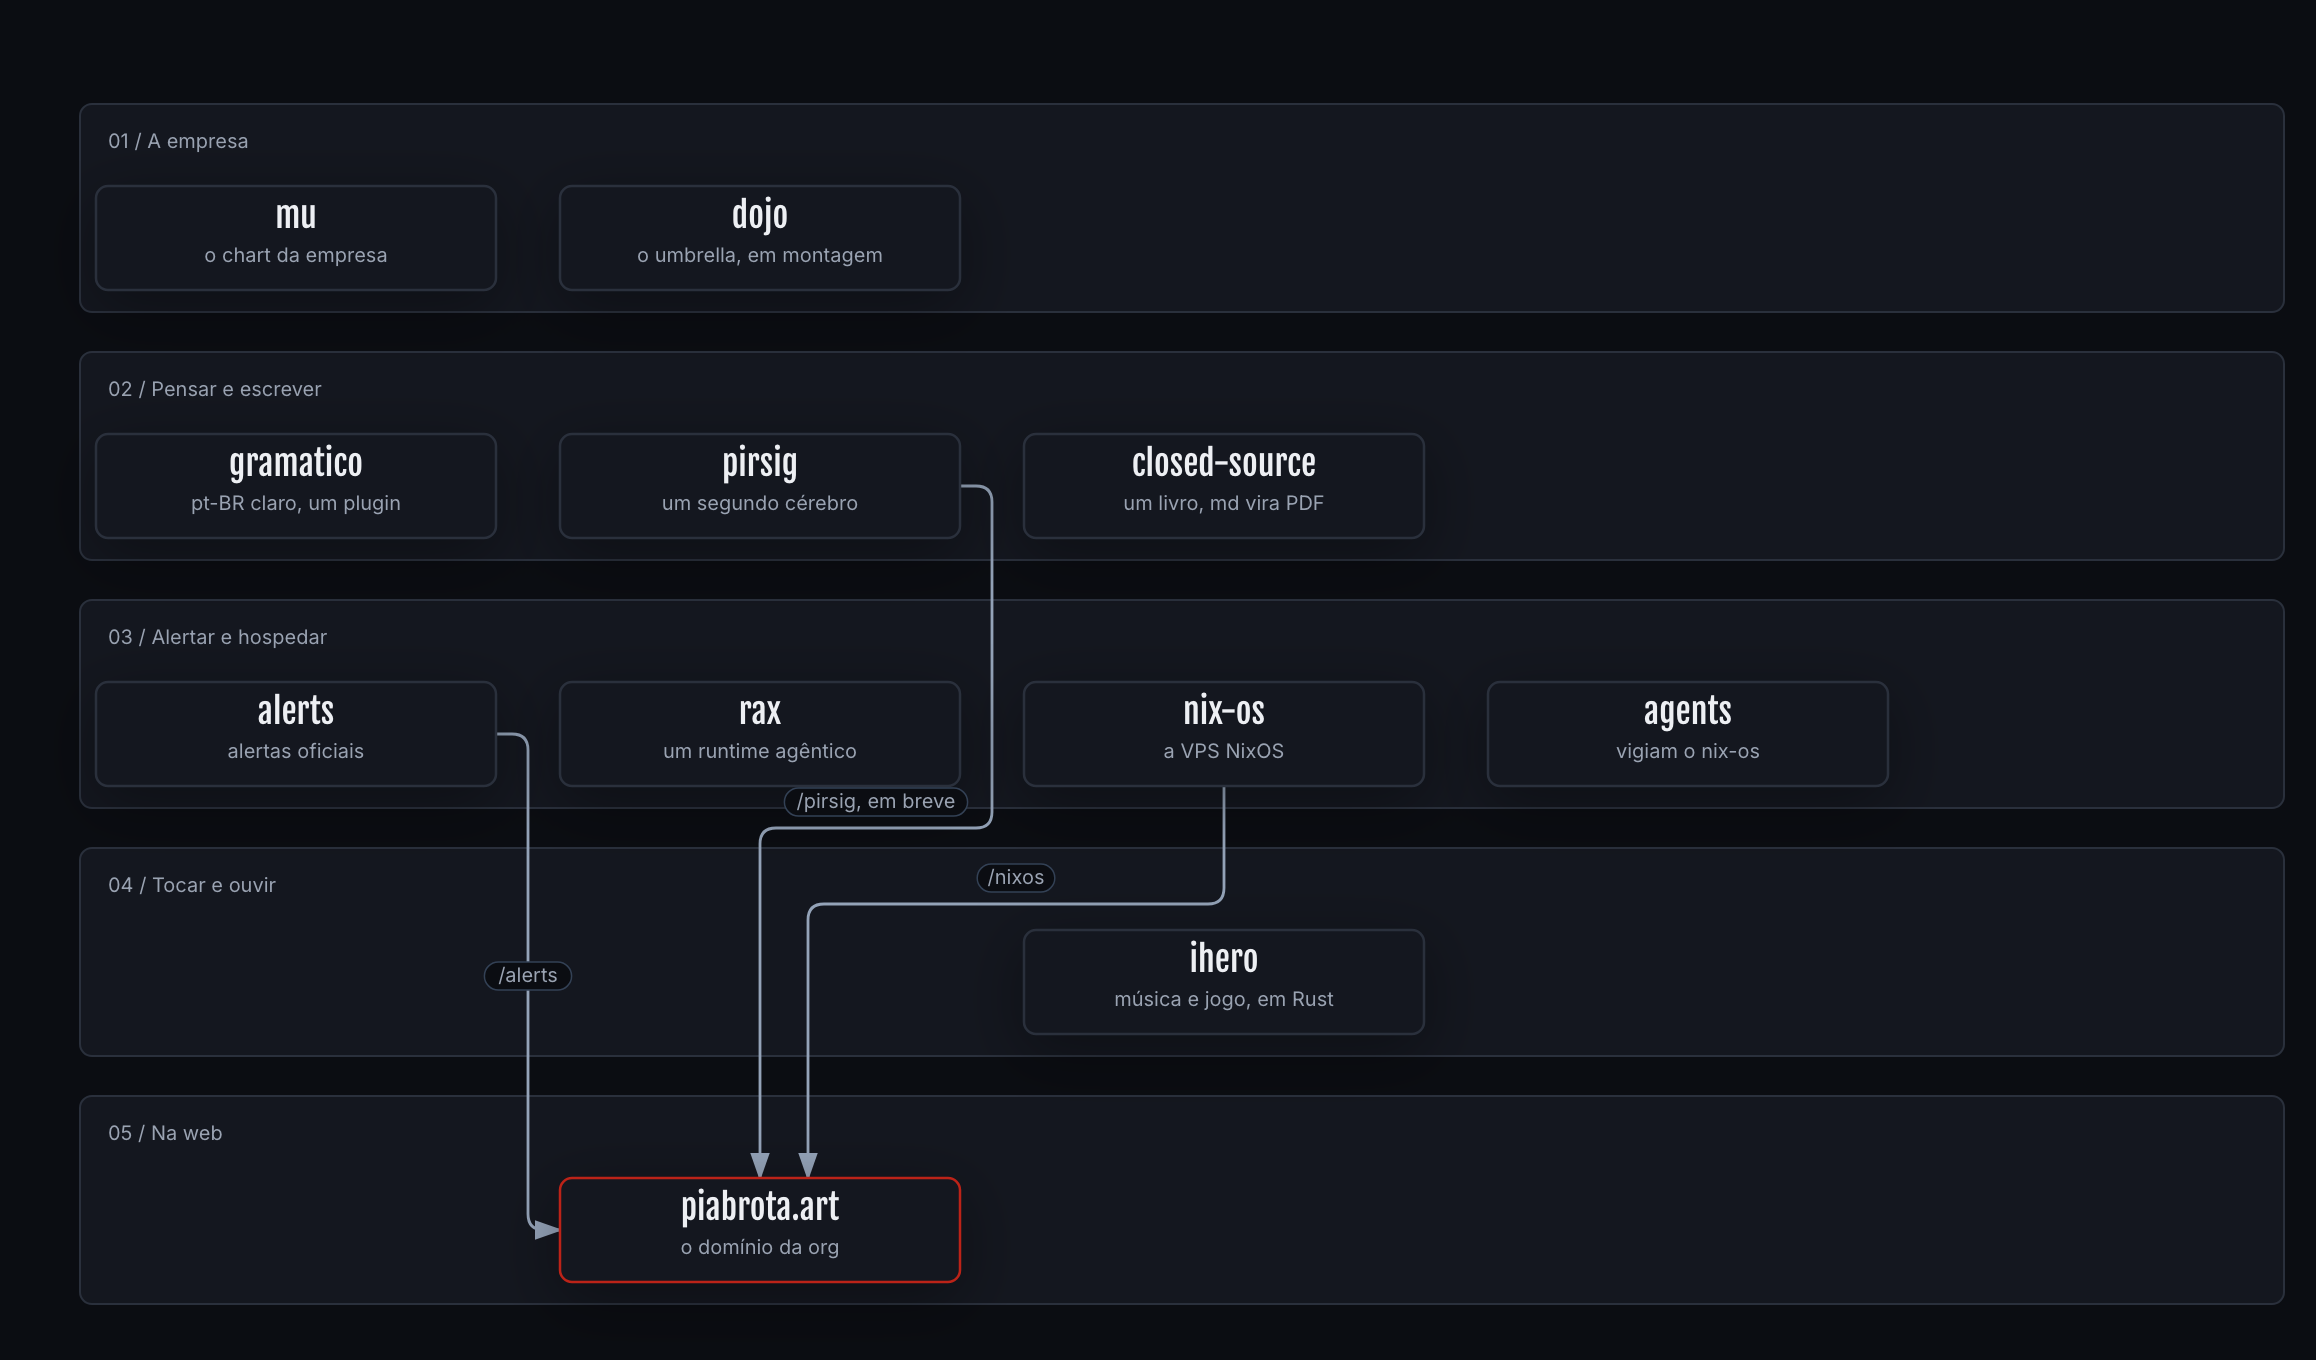
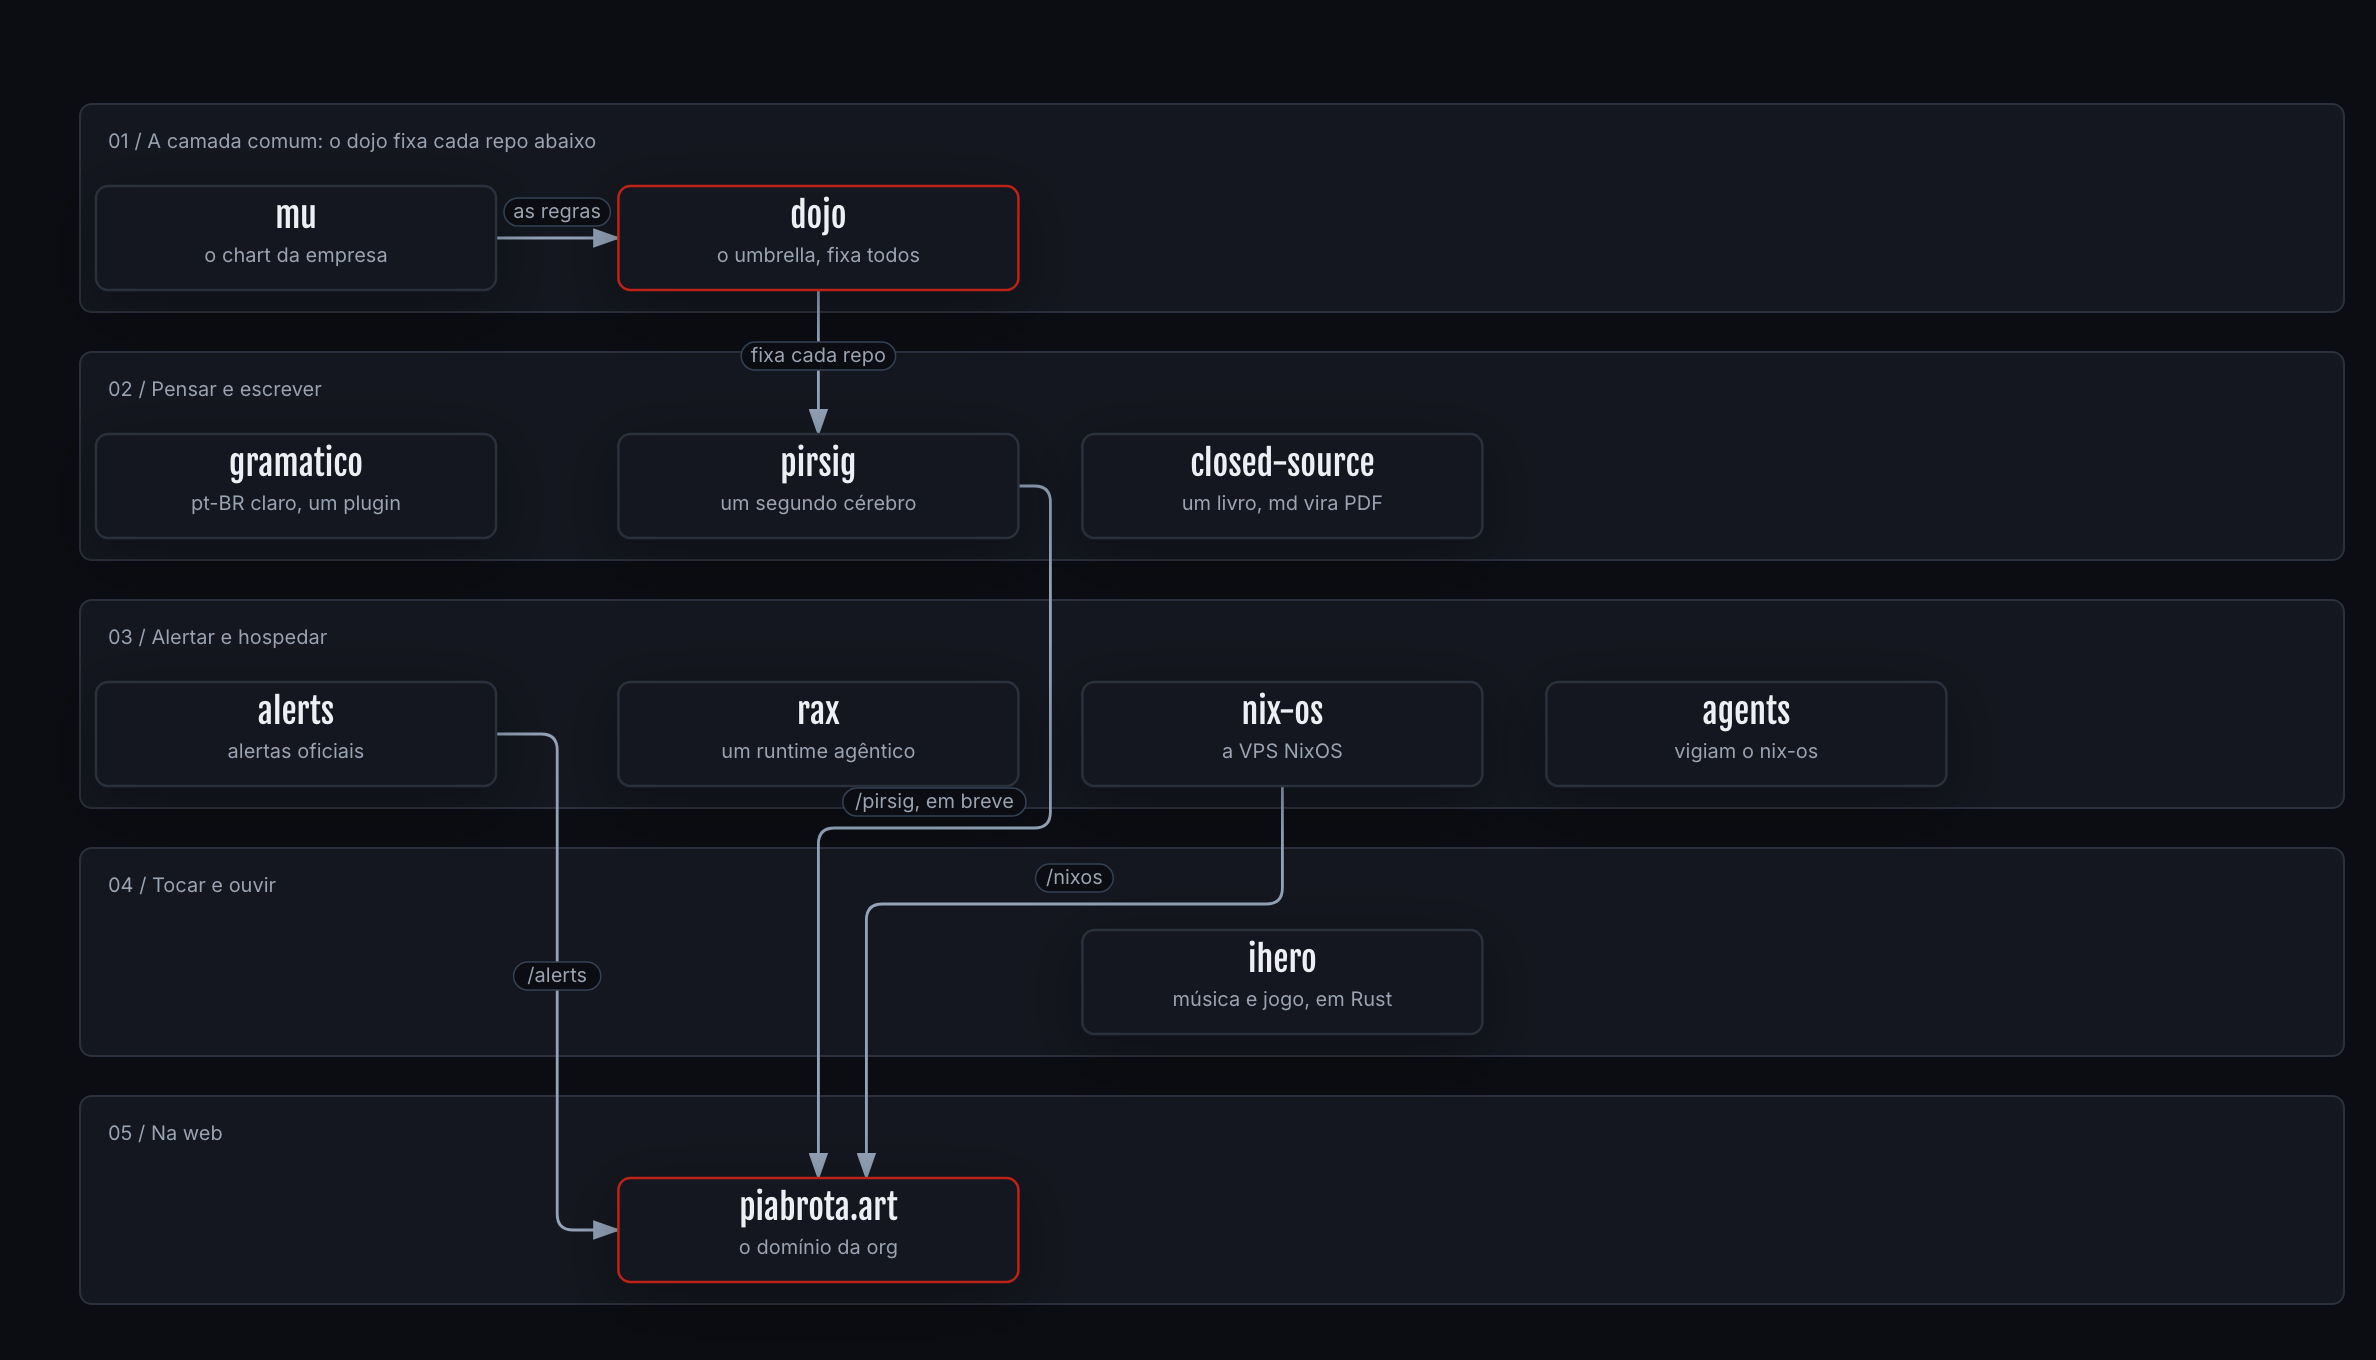
Show dojo as the common layer of every repository
The figure, in both languages, now has dojo over the rest: it takes the rules from mu and pins every repo.

diff --git a/profile/README.pt-BR.md b/profile/README.pt-BR.md
@@ -49,22 +49,23 @@
 | <img alt="无, mu, brushed in four strokes from Desmos equations" src="https://raw.githubusercontent.com/piabrota/nix-os/191a284035bef85ea828ff75cc729b4f045b10f1/docs/drawings/mu.svg" width="64"/> | [**nix-os**](https://github.com/piabrota/nix-os) | A configuração NixOS da pequena VPS que serve piabrota.art/nixos. Cada mudança é julgada pelo que adiciona à closure e à memória. | [piabrota.art/nixos](https://piabrota.art/nixos) | MPL-2.0 |
 | 🤖 | [**agents**](https://github.com/piabrota/agents) | Agentes pequenos que vigiam o nix-os e a VPS, e relatam no GitHub como piabrota-ops. Os agentes abrem pull requests e nunca fazem merge. | nenhum | MPL-2.0 |
 | <img alt="む, mu, brushed in its three strokes, in pure Nix" src="https://raw.githubusercontent.com/piabrota/mu/960984b928062b5cf043001e072322df51f106fa/docs/drawings/mu.svg" width="64"/> | [**mu**](https://github.com/piabrota/mu) | O chart da empresa: o dogma, os padrões, o diário e o índice dos repositórios da org. | nenhum | CC BY 4.0, AGPL-3.0, MPL-2.0 |
-| 道場 | [**dojo**](https://github.com/piabrota/dojo) | O umbrella dos projetos do piabrota. Em montagem. | ainda não | MPL-2.0 |
+| 道場 | [**dojo**](https://github.com/piabrota/dojo) | O umbrella e a camada comum: cada repositório é um submódulo aqui. | ainda não | MPL-2.0 |
 
 Os desenhos carregam do repositório de cada projeto, em um commit fixado. Nenhum desenho é copiado
 para cá. ihero, agents e dojo ainda não têm desenho.
 
 ## Como se encaixa
 
-![A fábrica piabrota em cinco faixas: mu e dojo sustentam a empresa; pirsig, gramatico e closed-source pensam e escrevem; alerts, rax, nix-os e agents alertam e hospedam; ihero toca; alerts serve piabrota.art/alerts, nix-os serve piabrota.art/nixos, e pirsig vai chegar a piabrota.art/pirsig.](img/pt/fabric.png)
+![A fábrica piabrota em cinco faixas: o dojo é a camada comum, recebe as regras do mu e fixa cada repositório; pirsig, gramatico e closed-source pensam e escrevem; alerts, rax, nix-os e agents alertam e hospedam; ihero toca; alerts serve piabrota.art/alerts, nix-os serve piabrota.art/nixos, e pirsig vai chegar a piabrota.art/pirsig.](img/pt/fabric.png)
 
 <details open>
 <summary>Como ler esta figura</summary>
 
-**Em uma frase.** São dez projetos abertos, cada um por conta própria. Três deles chegam à web em piabrota.art.
+**Em uma frase.** São dez projetos abertos, cada um por conta própria. O dojo é a camada comum que fixa todos eles, e três deles chegam à web em piabrota.art.
 
-**Como ler.** Cada faixa é um tipo de trabalho. Uma seta significa "é servido em", e o rótulo da seta
-é o caminho. "Em breve" significa planejado, ainda não publicado. A borda vermelha marca o domínio.
+**Como ler.** A faixa de cima é a camada comum, e cada outra faixa é um tipo de trabalho. Abaixo dela, uma
+seta significa "é servido em", e o rótulo da seta é o caminho. "Em breve" significa planejado, ainda não
+publicado. Uma borda vermelha marca o dojo e o domínio.
 
 **Fora da figura.** O site de cada projeto no GitHub Pages e as ferramentas em comum: Nix, Rust e
 archify.

diff --git a/profile/README.md b/profile/README.md
@@ -48,22 +48,23 @@
 | <img alt="无, mu, brushed in four strokes from Desmos equations" src="https://raw.githubusercontent.com/piabrota/nix-os/191a284035bef85ea828ff75cc729b4f045b10f1/docs/drawings/mu.svg" width="64"/> | [**nix-os**](https://github.com/piabrota/nix-os) | The NixOS configuration of the small VPS that serves piabrota.art/nixos. Every change is judged by what it adds to the closure and to memory. | [piabrota.art/nixos](https://piabrota.art/nixos) | MPL-2.0 |
 | 🤖 | [**agents**](https://github.com/piabrota/agents) | Small agents that watch nix-os and its VPS, and report on GitHub as piabrota-ops. They open pull requests and never merge. | none | MPL-2.0 |
 | <img alt="む, mu, brushed in its three strokes, in pure Nix" src="https://raw.githubusercontent.com/piabrota/mu/960984b928062b5cf043001e072322df51f106fa/docs/drawings/mu.svg" width="64"/> | [**mu**](https://github.com/piabrota/mu) | The company chart: the dogma, the standards, the journal and the index of the org's repositories. | none | CC BY 4.0, AGPL-3.0, MPL-2.0 |
-| 道場 | [**dojo**](https://github.com/piabrota/dojo) | The umbrella of the piabrota projects. Being set up. | none yet | MPL-2.0 |
+| 道場 | [**dojo**](https://github.com/piabrota/dojo) | The umbrella and the common layer: every repository is a submodule here. | none yet | MPL-2.0 |
 
 The drawings load from each project's repository at a pinned commit; none is copied here. ihero,
 agents and dojo have no drawing yet.
 
 ## How it fits
 
-![The piabrota fabric in five lanes: mu and dojo hold the company; pirsig, gramatico and closed-source think and write; alerts, rax, nix-os and agents warn and host; ihero plays; alerts serves piabrota.art/alerts, nix-os serves piabrota.art/nixos, and pirsig comes to piabrota.art/pirsig.](img/fabric.png)
+![The piabrota fabric in five lanes: dojo is the common layer, it takes the rules from mu and pins every repository; pirsig, gramatico and closed-source think and write; alerts, rax, nix-os and agents warn and host; ihero plays; alerts serves piabrota.art/alerts, nix-os serves piabrota.art/nixos, and pirsig comes to piabrota.art/pirsig.](img/fabric.png)
 
 <details open>
 <summary>How to read this figure</summary>
 
-**Takeaway.** Ten open projects, each on its own; three of them meet the web at piabrota.art.
+**Takeaway.** Ten open projects, each on its own. dojo is the common layer that pins them all, and three of them meet the web at piabrota.art.
 
-**How to read.** One lane per kind of work. An arrow means "is served at", and its label is the
-path; "coming" means planned, not live. The red border marks the domain.
+**How to read.** The top lane is the common layer, and each other lane is a kind of work. Below it, an arrow
+means "is served at", and its label is the path; "coming" means planned, not live. A red border marks
+dojo and the domain.
 
 **Not shown.** Each project's own site on GitHub Pages, and the tools they share: Nix, Rust,
 archify.
